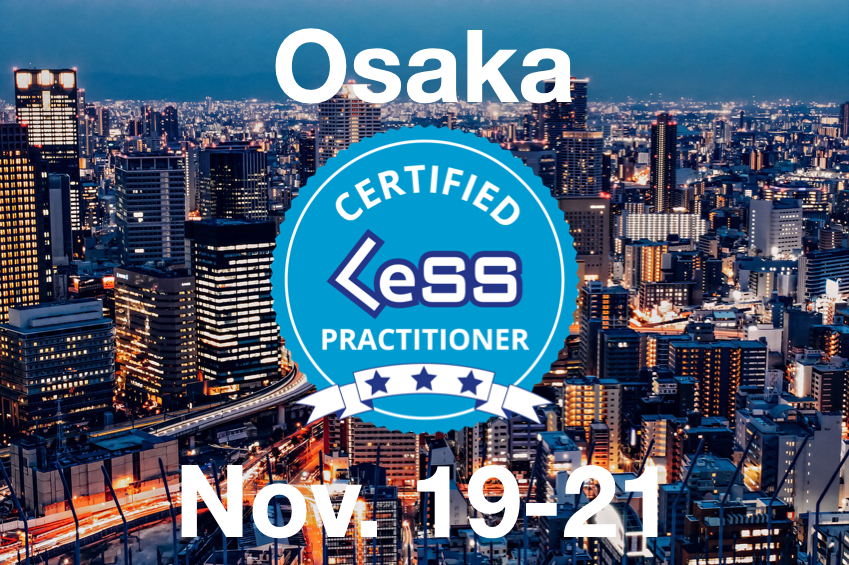
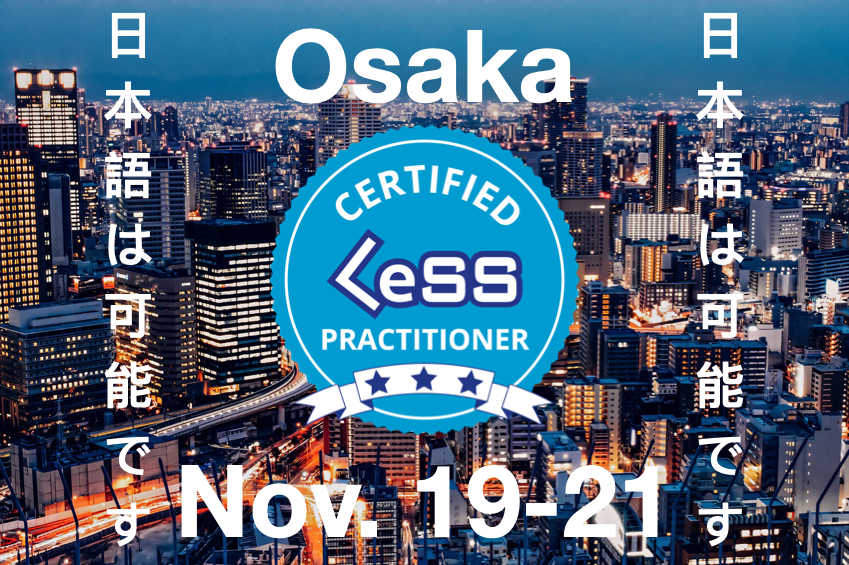
tweaked images to mention japanese is possible. Also tweaked header text with the same.

diff --git a/clp/osaka_fall_2024.md b/clp/osaka_fall_2024.md
@@ -20,7 +20,7 @@ trainingevent:
     - /assets/images/clp/CLP_Event_4_3_aspect_ratio.png
     - /assets/images/clp/CLP_Event_16_9_aspect_ratio.png
   description: >
-   The Certified LeSS Practitioner course is an in-depth course covering the LeSS principles, framework and rules, and guides. It provides essential information for adopting and improving LeSS to your product development group. The course contains an overview of LeSS, stories on LeSS adoptions, exercises and extensive LeSS Q&A to ensure we discuss the topics most of interest to the participants.
+   日本語は可能です The Certified LeSS Practitioner course is an in-depth course covering the LeSS principles, framework and rules, and guides. It provides essential information for adopting and improving LeSS to your product development group. The course contains an overview of LeSS, stories on LeSS adoptions, exercises and extensive LeSS Q&A to ensure we discuss the topics most of interest to the participants.
   trainer: "James Carpenter"
   offer:
     ticketUrl: "https://agilecarpentry.ticketspice.com/osaka-certified-less-practitioner-fall-2024"
